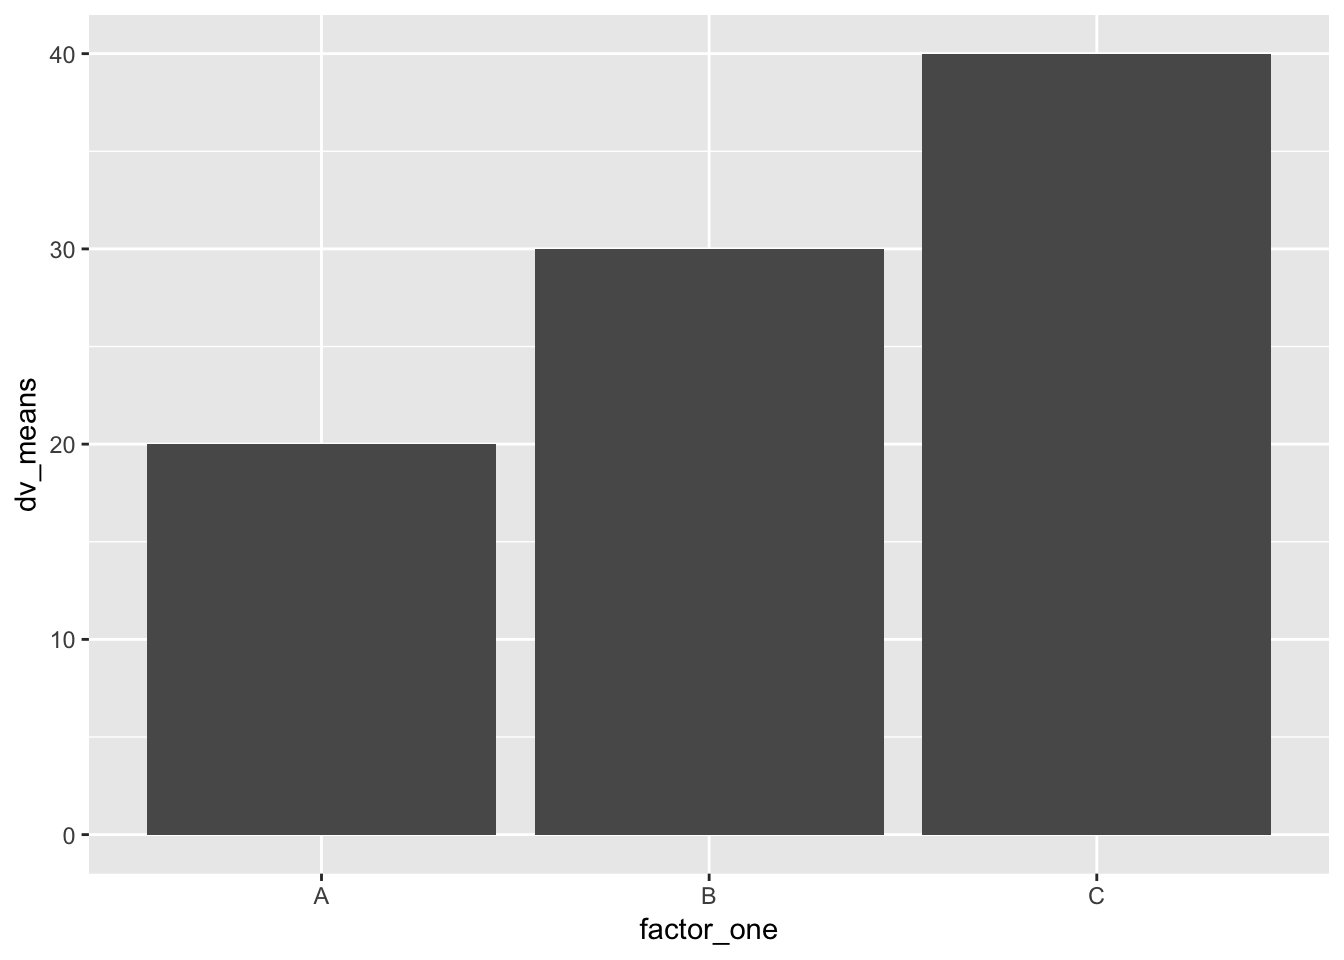
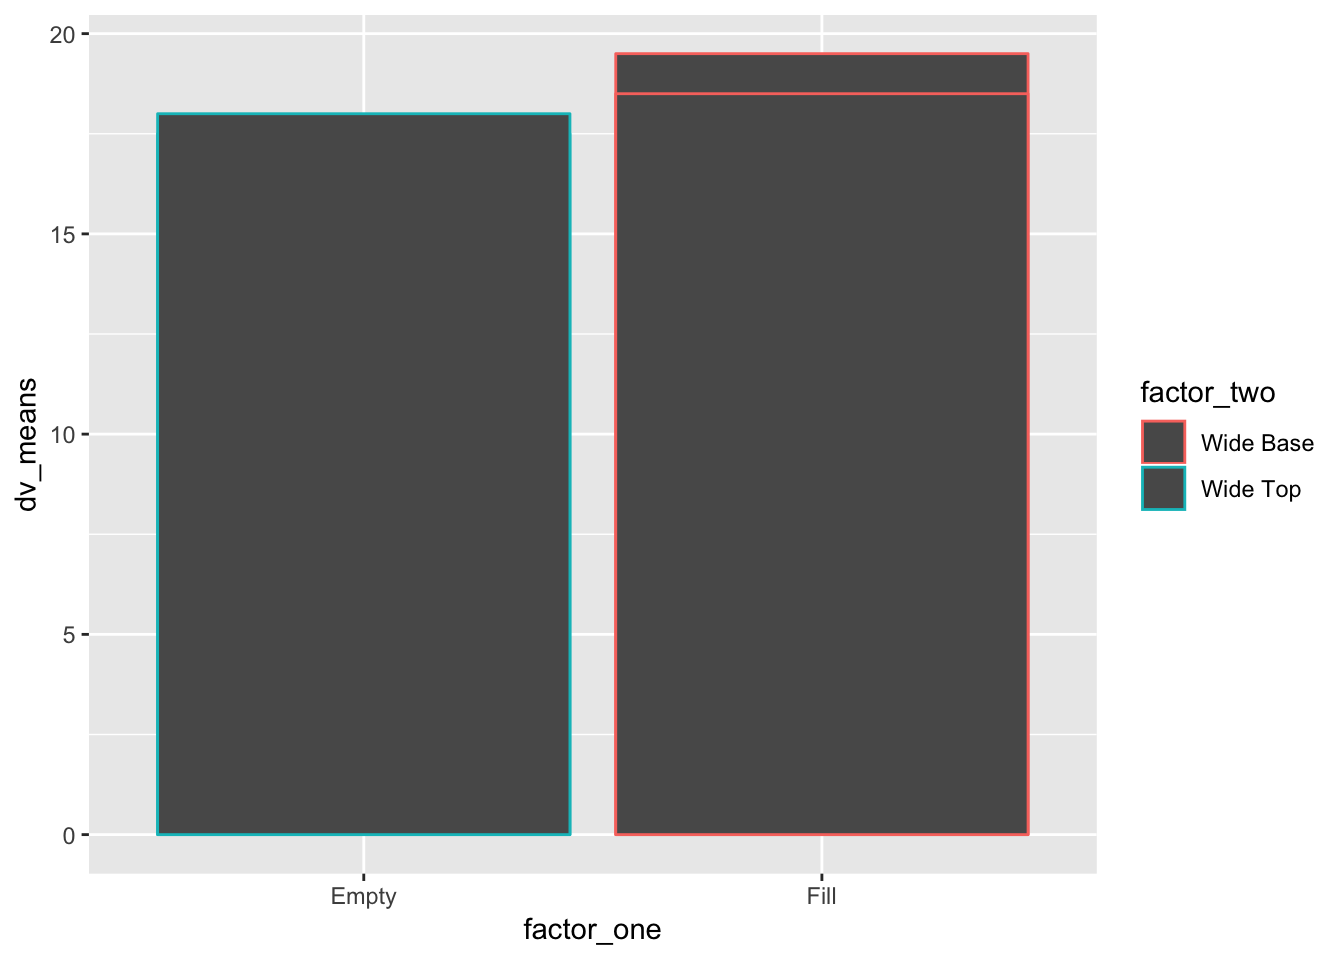
more graphs

diff --git a/docs/examples.html b/docs/examples.html
@@ -450,22 +450,28 @@ ggplot(plot_df, aes(x=AvNonRisk,y=AvSocialRisk))+
   ggtitle(&quot;Scatterplot with Regression&quot;)+
   theme_classic(base_size=12)+
   theme(plot.title = element_text(hjust = 0.5))</code></pre>
-<p><img src="examples_files/figure-html/unnamed-chunk-2-1.png" width="672" /> ###2.Bar Graphs</p>
-<pre class="r"><code>factor_one &lt;- as.factor(c(&quot;A&quot;,&quot;B&quot;,&quot;C&quot;))
-dv_means &lt;- c(20,30,40)
-dv_SEs   &lt;- c(4,3.4,4)
+<p><img src="examples_files/figure-html/unnamed-chunk-2-1.png" width="672" /></p>
+</div>
+<div id="bar-graphs" class="section level3">
+<h3>2.Bar Graphs</h3>
+<pre class="r"><code>library(ggplot2)
+#Create a dataframe
+factor_one &lt;- rep(as.factor(c(&quot;Fill&quot;,&quot;Empty&quot;)),2)
+factor_two &lt;- rep(as.factor(c(&quot;Wide Base&quot;,&quot;Wide Top&quot;)),2)
+dv_means &lt;- c(19.5,17.5,18.5,18)
 plot_df &lt;- data.frame(factor_one,
-                      dv_means,
-                      dv_SEs)
-
-ggplot(plot_df, aes(x=factor_one,y=dv_means))+
-  geom_bar(stat=&quot;identity&quot;)</code></pre>
+                      factor_two,
+                      dv_means)
+                      
+ggplot(plot_df, aes(x=factor_one,y=dv_means,
+                    group=factor_two,
+                    color=factor_two))+
+  geom_bar(stat=&quot;identity&quot;, position= &quot;dodge&quot;)</code></pre>
 <p><img src="examples_files/figure-html/unnamed-chunk-3-1.png" width="672" /></p>
 </div>
 <div id="line-graph" class="section level3">
 <h3>Line Graph</h3>
-<pre class="r"><code>#Create a dataframe
-factor_one &lt;- as.factor(c(&quot;A&quot;,&quot;B&quot;,&quot;C&quot;))
+<pre class="r"><code>factor_one &lt;- as.factor(c(&quot;A&quot;,&quot;B&quot;,&quot;C&quot;))
 dv_means &lt;- c(20,30,40)
 dv_SEs   &lt;- c(4,3.4,4)
 plot_df &lt;- data.frame(factor_one,
